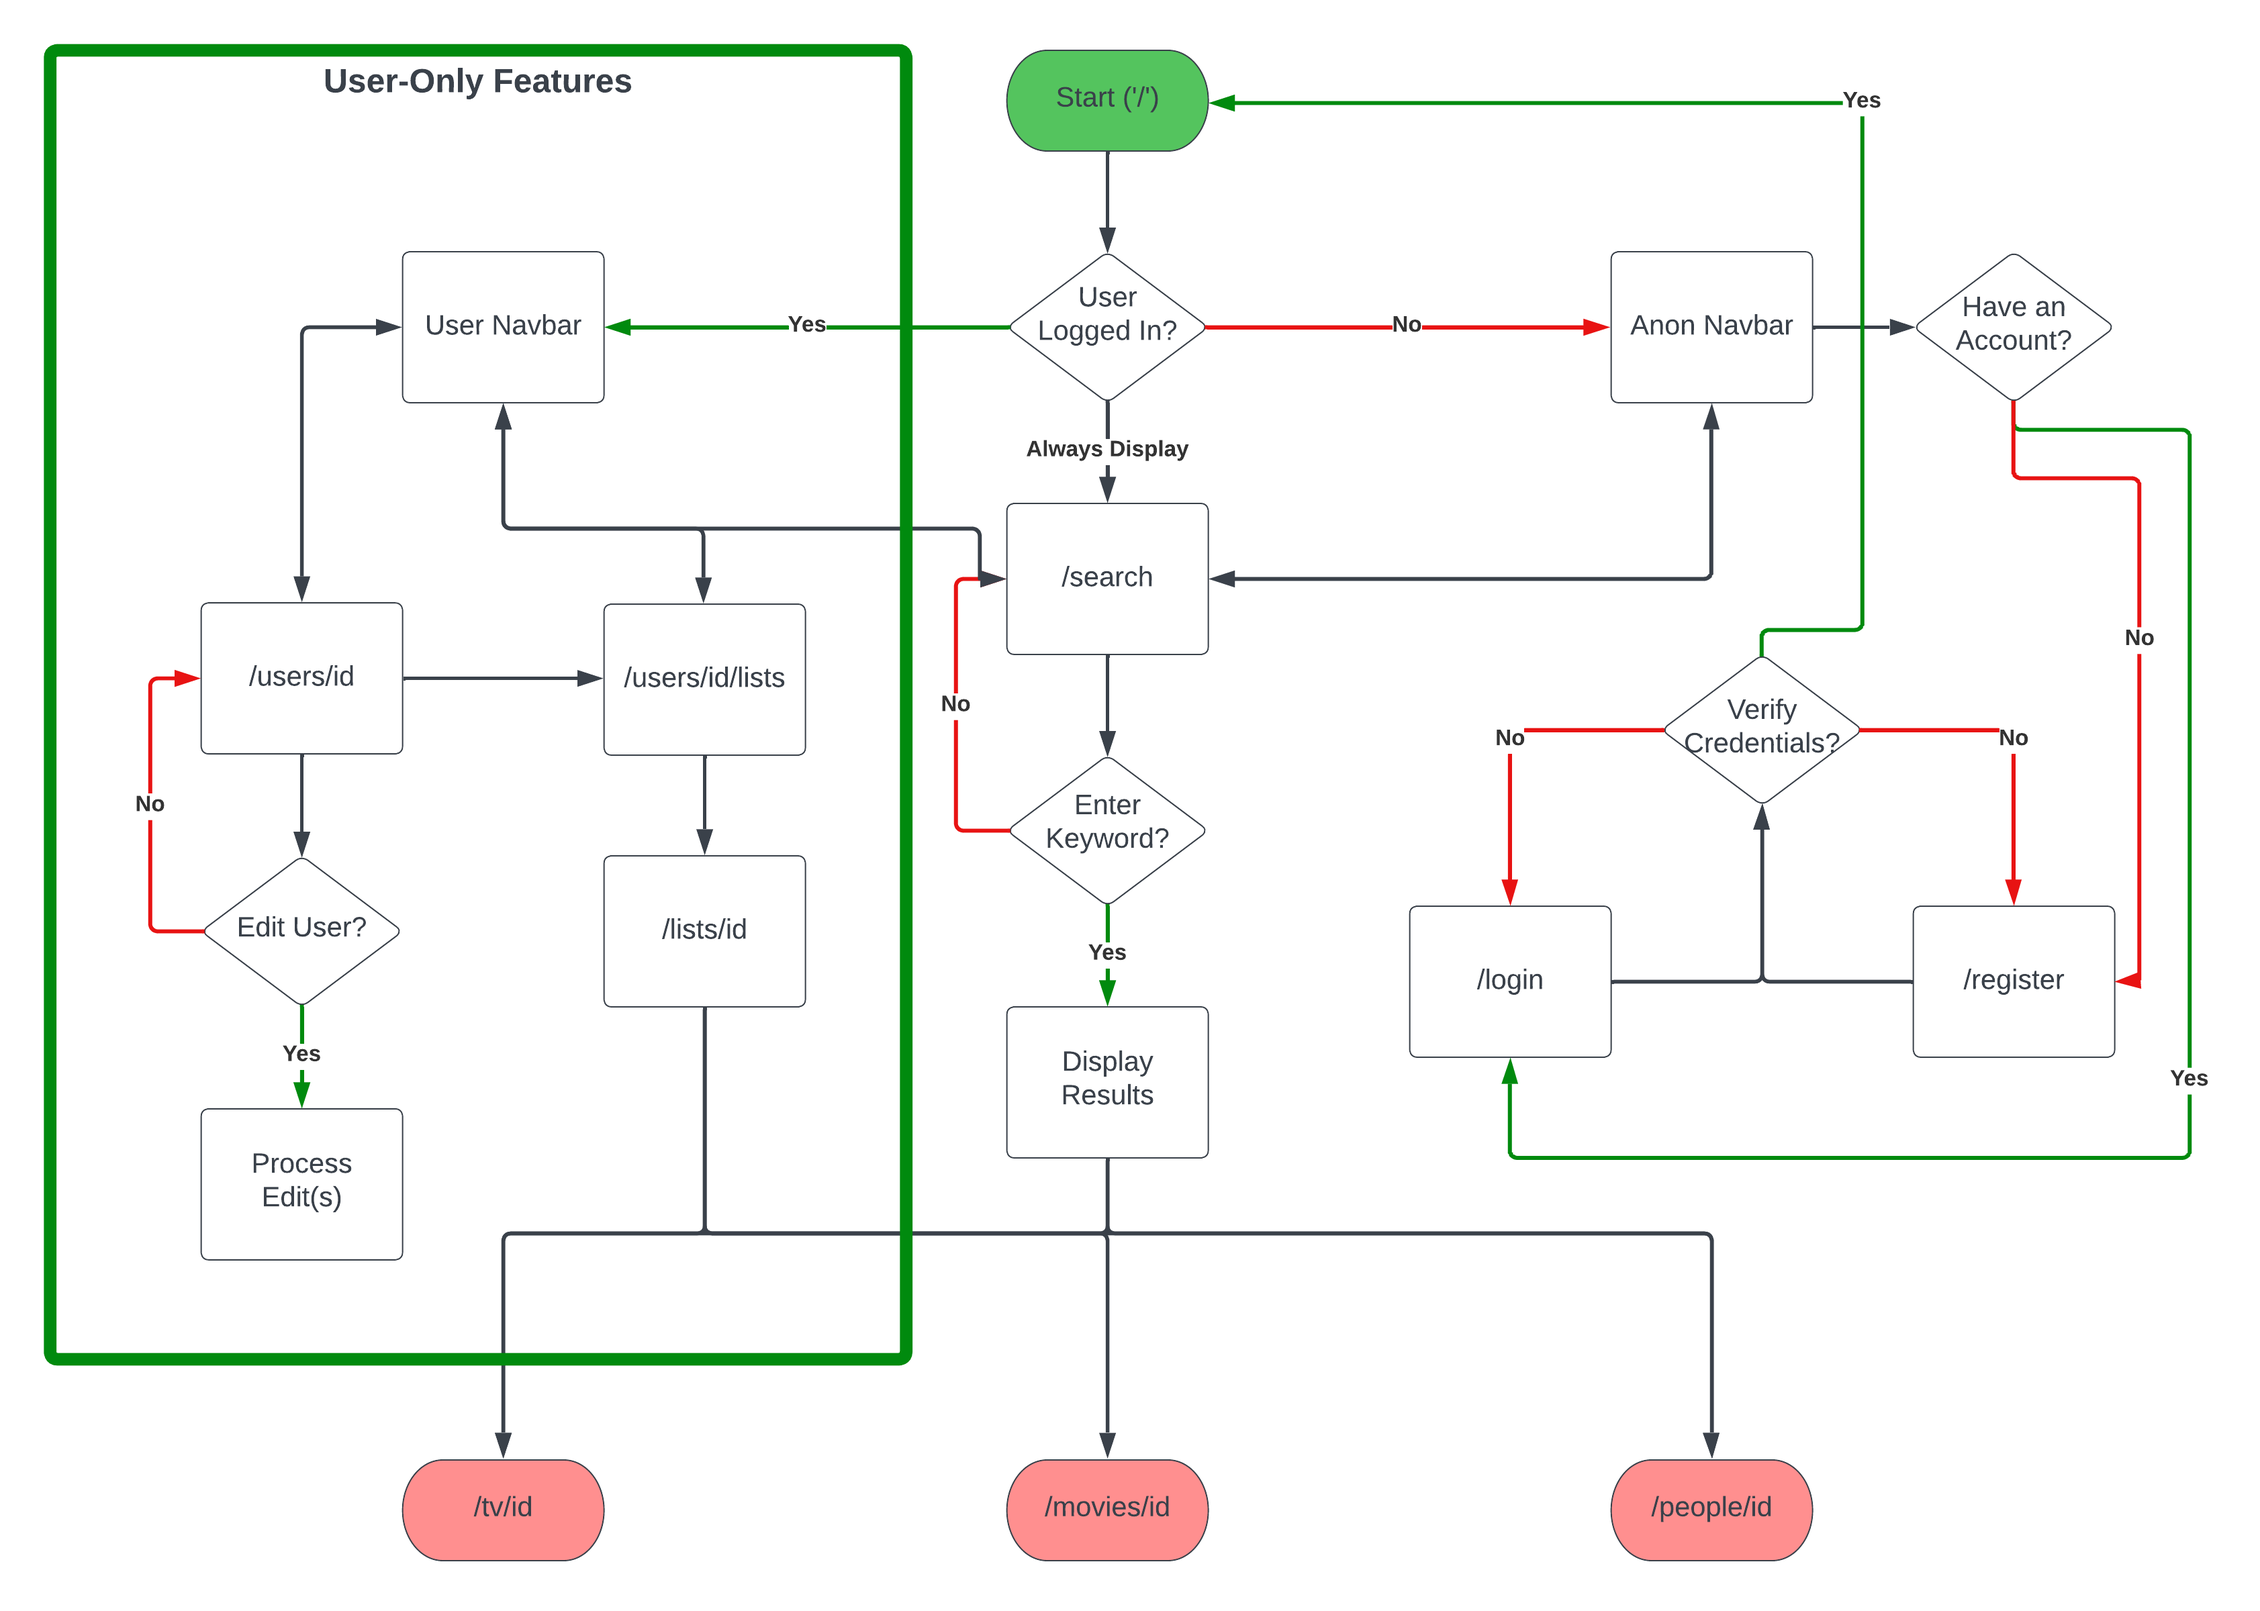
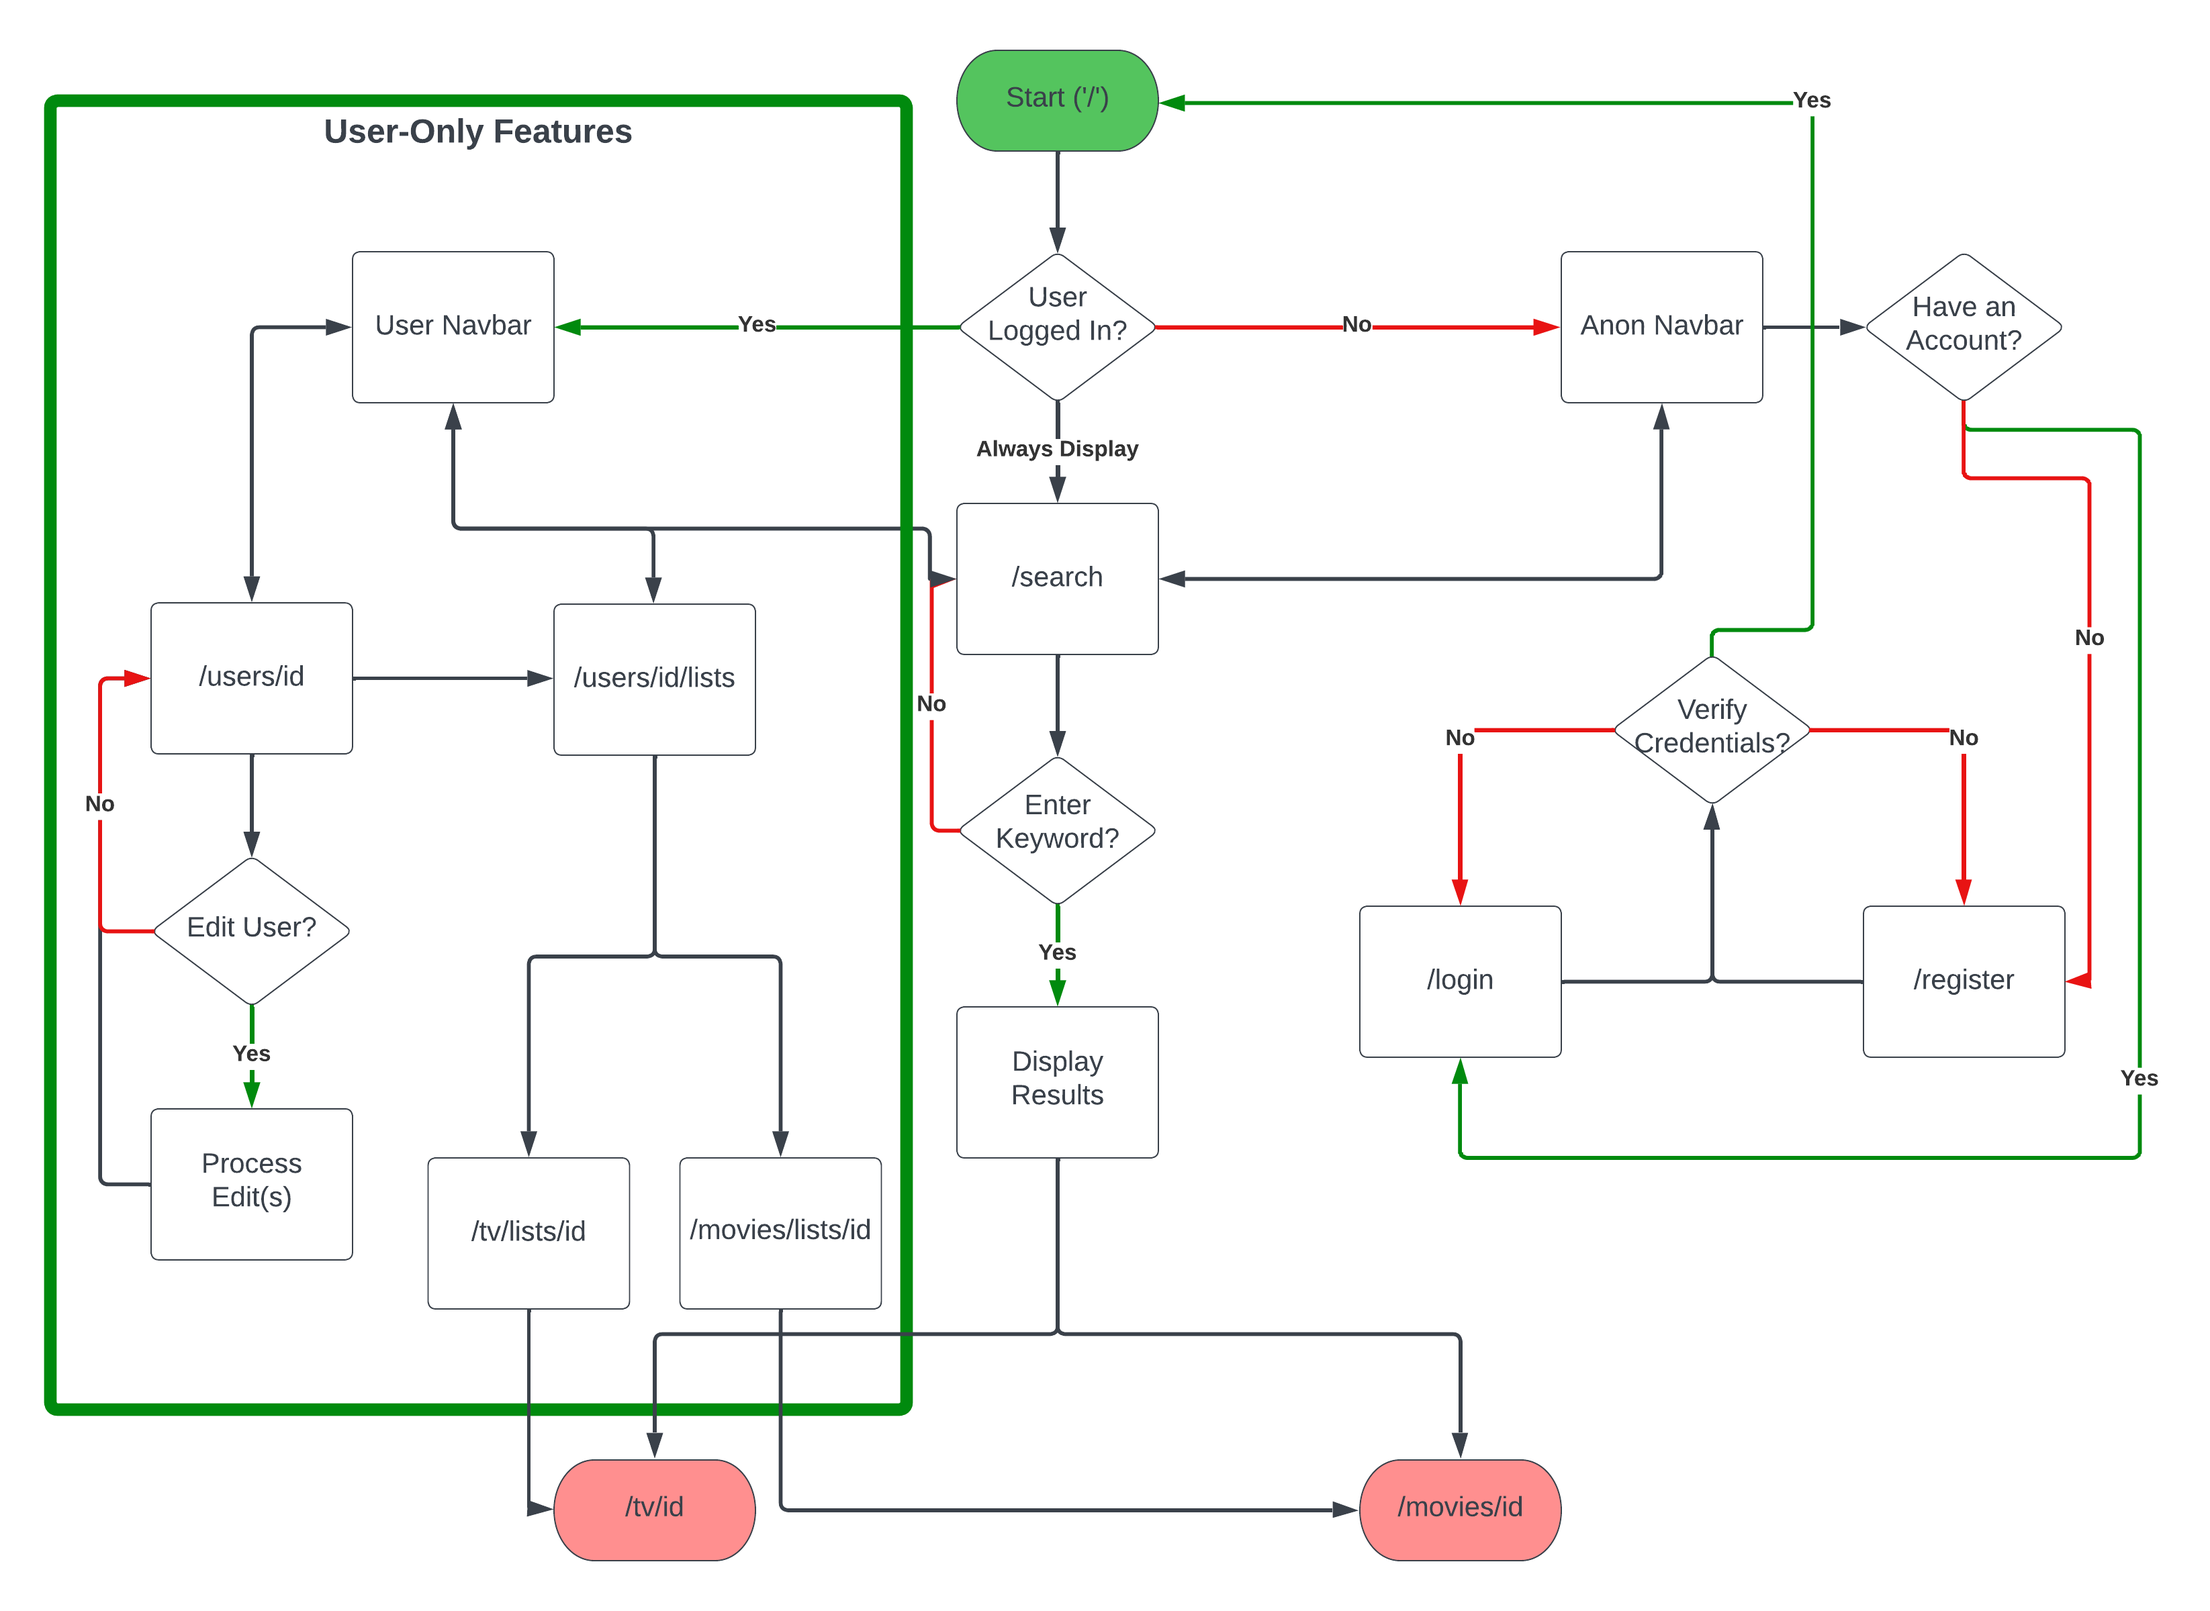
docs: edit & revise database schema, user flow diagram, and proposal

diff --git a/proposal.md b/proposal.md
@@ -1,6 +1,6 @@
 # Movie Database
 
-## Capstone Two Proposal version 1.1
+## Capstone Two Proposal version 1.2
 
 ### James "Robbie" Gathje
 
@@ -10,13 +10,13 @@ What is the project being proposed and why?<br>
 The project being proposed is a movie database web-application (website) intended to equally demonstrate my front-end & back-end skills as a full-stack developer.
 
 What goal is this website designed to achieve?<br>
-The site is centered around user-created watch lists. Essentially, the site acts as a personal database for your favorite movies, tv shows, and people in the film & tv industry. Users are empowered to create lists of whatever kind they'd like: watch later, favorite  actors/actresses, best Rom-Coms, etc. And those lists are publicly shareable!
+The site is designed to be a quick-access catalogue for movies and tv series that a user may be interested in. It provides trailers, when there are any available, streaming platform availability, and general data a user would want when choosing something to watch. Further, it allows users to create a personalized tv watch list and a personalized movie watch list.
 
 Who are its intended users (i.e. their demographics)?<br>
-Film buffs, binge watchers, streaming savants, or anyone interested in knowing more about the content they consume. However, the app is only available in English, and the content it references is localized to the United States. Particularly, any reference to streaming service availability is a reference only to US availibility on that platform. Generally, the app is intended for the internet-centric generations of Gen Z and Millenials, approximately ages 13-43, but it could very well appeal more broadly, considering the vast, ageless appeal of television and movie content.
+Film buffs, binge watchers, streaming savants, or anyone interested in knowing more about a particular tv series or movie they may be interested in watching. However, the app is only available in English, and the content it references is localized to the United States. Particularly, any reference to streaming service availability is a reference only to US availibility on that platform. Generally, the app is intended for the internet-centric generations of Gen Z and Millenials, approximately ages 13-43, but it could very well appeal more broadly, considering the vast, ageless appeal of television and movie content.
 
 What data does it use?<br>
-The app requires detailed movie & tv series data that includes: who played what role, streaming service availability, MPA or TV Parental Guidelines rating, runtime, number of seasons & episodes in each season, and similar details. Additionally, the app requires users to register with a username & password in order to access list-creation features. Movie, TV, and related data is acquired through [The Movie Database](https://developer.themoviedb.org/docs).
+The app requires detailed movie and tv series data that includes: trailers, streaming service availability, plot overview, genres, movie runtime, number of seasons and episodes for tv series, and similar details. Additionally, the app requires users to register with a username and password in order to access personalized watch list features. Movie, TV, and all related data is acquired through [The Movie Database](https://developer.themoviedb.org/docs).
 
 What does its database schema look like?
 
@@ -26,24 +26,25 @@ What kinds of issues might its API(s) cause?<br>
 [The Movie Database](https://developer.themoviedb.org/docs) is very lightly rate limited (~50 requests per second), so it shouldn't be a major issue, but all code for the site needs to avoid making API calls in large batches.
 
 What sensitive information does it secure?<br>
-Passwords are secured and must be properly encrypted. Usernames are also secured. However, usernames are only shared between users, or with the public, if a user chooses to share one of their lists. Anyone with the link to that list would have knowledge of that user's username.
+Passwords are secured and must be properly encrypted. Usernames are also secured. However, usernames are never public, as there is no social functionality in the base app.
 
 What functionality does it include?
 
 1. User Registration, Security, and Authorization - login/logout
-2. Customizable, Shareable Watch Lists - users are enabled to create, edit, and share lists of content (movies/tv series) and/or people (actors, actresses, directors, writers, etc.) of their own categorization (favorite movies, favorites actors, best Rom-Coms, etc.).
-3. Movie Database & Reference - general information on any movie, tv series, or person in the industry
+2. Customizable Watch Lists - users are enabled to create both a movie watch list and a tv watch list for quick access to those movies'/series' pages.
+3. Movie & TV Information & Trailers Database - provide trailers, streaming service availability, and general information for any movie or tv series
 
 What does its user flow look like?
 
 ![User Flow Diagram](docs/user_flow_diagram.png)
 
 What features does it have beyond basic CRUD (Create, Read, Update, Delete)?<br>
-The base version of the app is built on user-created, shareable lists of movies, tv shows, and/or people.
+The base version of the app is built on user-customized watch lists of movies and tv series.
 
 What stretch goals / extra features could be achieved / implemented?<br>
-There are three stretch goals.
+There are four stretch goals.
 
 1. New & upcoming releases
 2. Theatre showtimes
-3. Allow users to store which streaming services they subscribe to and prominently display whether or not they are presently able to stream any particular movie or tv show they are searching for.
+3. Allow users to store which streaming services they subscribe to and prominently display whether or not they are presently able to stream any particular movie or tv series they are searching for.
+4. Detailed actor, writer, and director pages
